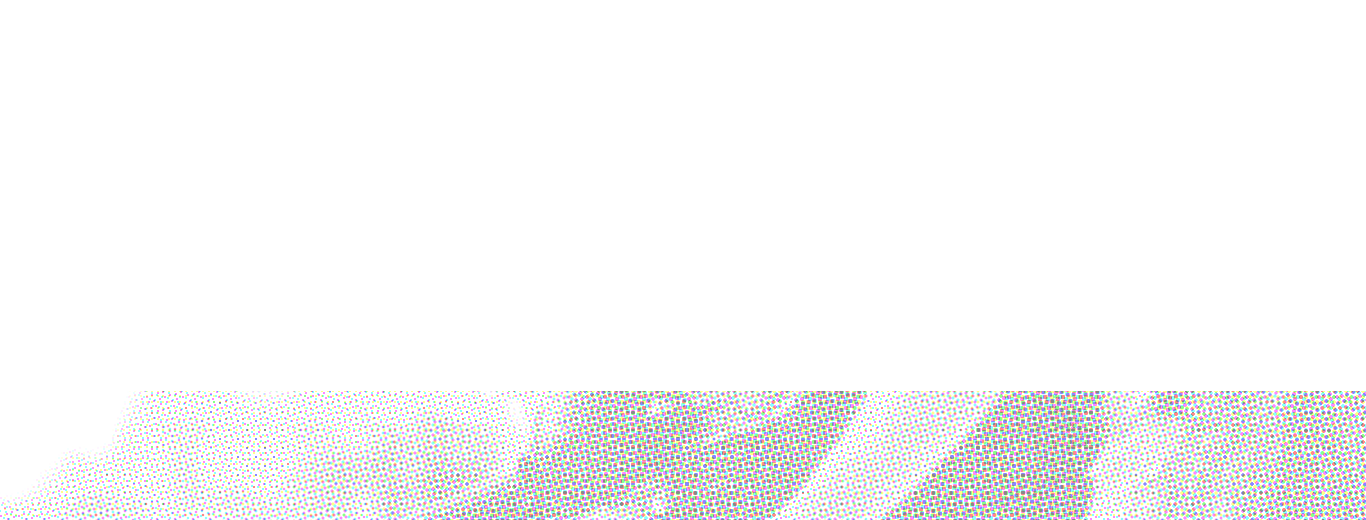
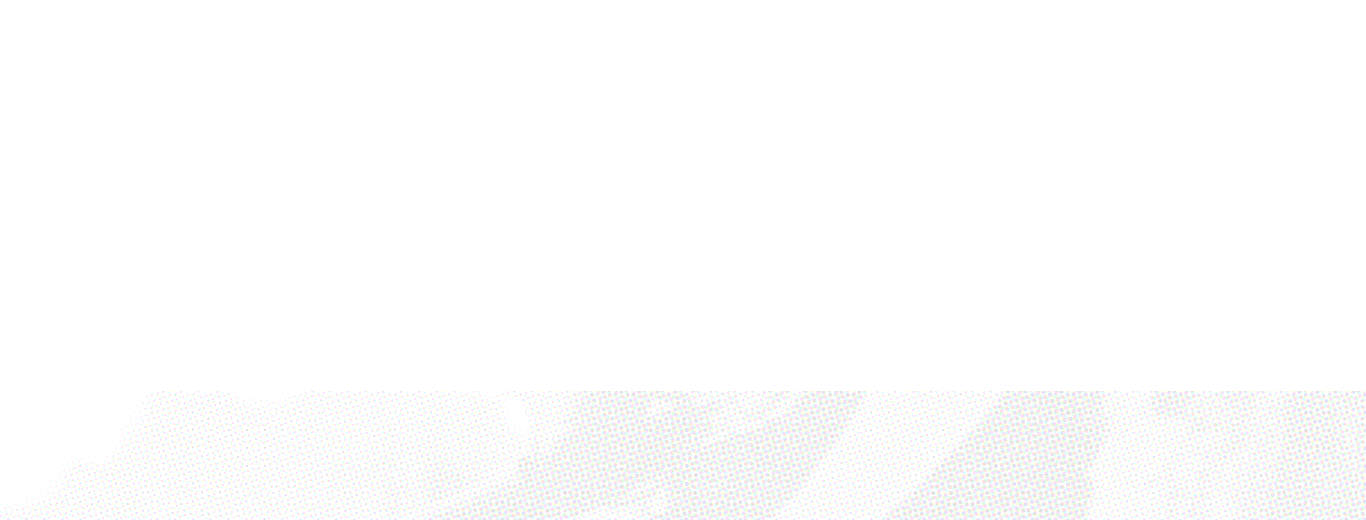
0.4 - HTML & CSS are coded up thru Level #4

Changed region(s): [[0.0, 0.7385, 1.0, 1.0]]

diff --git a/sc/index.htm b/sc/index.htm
@@ -27,7 +27,7 @@
       <span>&nbsp;</span>
       <a href="#recentshows" id="recentshows">Recent Shows</a>
       <span>&nbsp;</span>
-      <a href="#contactus" id="contactus">Contact Us</a>
+      <a href="#contactus" id="contactus">Contact Around Town</a>
       <span>&nbsp;</span>
       <a href="#social" id="social">Social Media</a>
     </div>
@@ -66,7 +66,7 @@
       	<span class="headr-text">Around Town is hosted by</span>
         <img src="/aroundtown/assets/img/elements/about_at-dallas_raej.jpg" width="960" height="374" alt="Around Town is hosted by Dallas Jamison & Rae J Johnson" />
       	<p>
-          Dallas Jamison and RaeJ Johnson are your Host and Executive Producers of Around Town; a TV talk show that highlights people, 
+          Dallas Jamison and RaeJ Johnson are your Co-hosts and Executive Producers of Around Town; a TV talk show that highlights people, 
           places and events around town but NOT limited to the St. Louis and East St. Louis metropolitan area. 
       	</p>
         <p>
@@ -83,9 +83,52 @@
            <strong>Set your DVR!</strong>
         </p>
       </div>
+      <div id="level-2">
+        <span class="headr-text">Recent Shows</span>
+        <div id="box-l2-left">
+          <iframe width="520" height="280" src="https://www.youtube.com/embed/eJcMiu6rMag" frameborder="0" allowfullscreen></iframe>
+          <a href="https://www.youtube.com/embed/eJcMiu6rMag">Wendy Orlando - Maryland Heights, MO</a>
+          <span><strong>First Aired: </strong>August 3, 2016</span>
+          <div></div>
+          <p>
+            Maecenas sit amet lacus ac tellus sollicitudin bibendum id sit amet orci. Mauris ultricies, justo eu cursus 
+            pellentesque, arcu lacus porta elit.
+          </p>
+          <div></div>
+          <a href="https://www.youtube.com/">View More Recent Shows</a>
+        </div>
+        <div id="box-l2-mid"></div>
+        <div id="box-l2-right">
+          <iframe width="280" height="160" src="https://www.youtube.com/embed/x1O905ou4Qc" frameborder="0" allowfullscreen></iframe>
+          <a href="https://www.youtube.com/embed/x1O905ou4Qc">Tanya Pura - Kirkwood, MO</a>
+          <span><strong>First Aired: </strong>April 28, 2016</span>
+          <div></div>
+          <iframe width="280" height="160" src="https://www.youtube.com/embed/6BOjhPYajGc" frameborder="0" allowfullscreen></iframe>
+          <a href="https://www.youtube.com/embed/6BOjhPYajGc">Terry Cuipeer - Laclede's Landing</a>
+          <span><strong>First Aired: </strong>March 17, 2016</span>
+        </div>
+      </div>
+      <div id="level-3">
+        <span class="headr-text">Contact Around Town</span>
+        <p>
+          Cras maximus, ex id ultricies pretium, nibh enim auctor orci, eu posuere justo justo ac mauris. 
+          Suspendisse ac dapibus nulla.
+        </p>
+        <p>
+          Nam feugiat odio et tempor malesuada.
+        </p>
+        <div>
+          <input type="text" size="40" maxlength="50" value="Enter in your name" name="name" />
+          <input type="text" size="63" maxlength="75" value="Enter in your email address" name="email" />
+          <textarea cols="100" rows="7" name="message">Enter in your message</textarea>
+        </div>
+        <input type="submit" value="Send Message" id="input-submit_contact" />
+      </div>
     </div>
     <div id="bkgrnd">
     	<div></div>
+      <div></div>
+      <div></div>
       <div></div>
     </div>
   </body>

diff --git a/assets/css/main.css b/assets/css/main.css
@@ -116,8 +116,20 @@ body {
 
 #bkgrnd > div + div {
 	width: 100%;
-	height: 49.5em;
+	height: 46em;
 	background: url('/aroundtown/assets/img/bkgrnd/2.gif') 0 0 repeat-x;
+}
+
+#bkgrnd > div + div + div {
+	width: 100%;
+	height: 40em;
+	background: url('/aroundtown/assets/img/bkgrnd/3.png') 0 0 repeat-x;
+}
+
+#bkgrnd > div + div + div + div {
+	width: 100%;
+	height: 44.13em;
+	background: url('/aroundtown/assets/img/bkgrnd/4.png') 0 0 no-repeat;
 }
 
 #cntainr {
@@ -129,13 +141,14 @@ body {
 #level-0 {
 	width: 61.5em;
 	height: 32.5em;
-	margin: 0 auto;
+	margin: 0.5em auto 0 auto;
 }
 
 #box-l0-left {
 	width: 38.1em;
 	height: inherit;
 	display: inline-block;
+	vertical-align: top;
 	font-family: "merriweather", serif;
 	font-style: normal;
 	font-weight: 400;
@@ -211,7 +224,7 @@ body {
 
 #level-1 {
 	width: 100%;
-	height: 49.5em;
+	height: 43em;
 	margin: 0 auto;
 	padding: 1.5em 0;
 	font-family: "merriweather", serif;
@@ -237,4 +250,134 @@ body {
 	font-weight: 400;
 }
 
-    
+#level-2 {
+	width: 61.5em;
+	height: 36.5em;
+	margin: 0 auto;
+	padding: 1.5em 0;
+}
+
+#level-2 > span {
+	width: 6.93em;
+	display: block;
+	margin: 0 auto 0.65em auto;
+}
+
+#box-l2-left, 
+#box-l2-right {
+	width: 32.5em;
+	height: 33.13em;
+	display: inline-block;
+	font-family: "merriweather", serif;
+}
+
+#box-l2-left {
+	vertical-align: top;
+}
+
+#box-l2-right {
+	width: 17.5em;
+}
+
+#box-l2-left > a,
+#box-l2-right > a {
+	display: block;
+	margin: 0.2em auto;
+	font-family: "adelle-sans", "Franklin Gothic Medium", "Arial", "Helvetica", sans-serif;
+	font-size: 1.2em;
+	text-align: center;
+	color: #a68b37;
+}
+
+#box-l2-left > span,
+#box-l2-right > span {
+	display: block;
+  margin-top: 0.5em;
+	font-size: 0.95em;
+  text-align: center;
+	color: #66686a;
+}
+
+#box-l2-left > div, 
+#box-l2-right > div {
+	width: 100%;
+	height: 1px;
+	margin: 0.5em 0;
+	background-color: #a5a29e;
+}
+
+#box-l2-left > p {
+	font-size: 0.95em;
+	line-height: 1.4em;
+}
+
+#box-l2-left > a + span + div + p + div + a {
+	font-size: 1em;
+}
+
+#box-l2-mid {
+	width: 1px;
+	height: 25.13em;
+	display: inline-block;
+	margin: 4em 5.45em;
+	vertical-align: top;
+	background-color: #a5a39e;
+}
+
+#box-l2-right > div {
+	margin: 1.25em 0 1.5em 0;
+}
+
+#level-3 {
+	width: 61.5em;
+	height: 44.13em;
+	margin: 0 auto;
+	padding-top: 1.5em;
+}
+
+#level-3 > span {
+	width: 10.95em;
+	display: block;
+	margin: 0 auto 0.65em auto;
+}
+
+#level-3 > p {
+	font-family: "merriweather", serif;
+	font-size: 0.95em;
+	line-height: 1.4em;
+	color: #fff;
+}
+
+#level-3 > div {
+	width: 53.25em;
+	height: 20.25em;
+	margin: 0 auto;
+}
+
+input[type=text] {
+	display: block;
+	margin-bottom: 1.25em;
+	padding: 0.5em 0.5em 0.6em 1em;
+	border: 1px solid #a5a29e;
+	font-family: "adelle-sans", sans-serif;
+	font-size: 1.05em;
+	color: #a5a29e;
+}
+
+input[type=submit] {
+	position: relative;
+	display: block;
+	float: right;
+	top: 0.2em;
+	right: 4.9em;
+}
+
+textarea {
+	display: block;
+	margin: 0 auto;
+	padding: 0.7em 1em;
+	border: 1px solid #a5a29e;
+	font-family: "adelle-sans", sans-serif;
+	font-size: 1.05em;
+	color: #a5a29e;
+}
